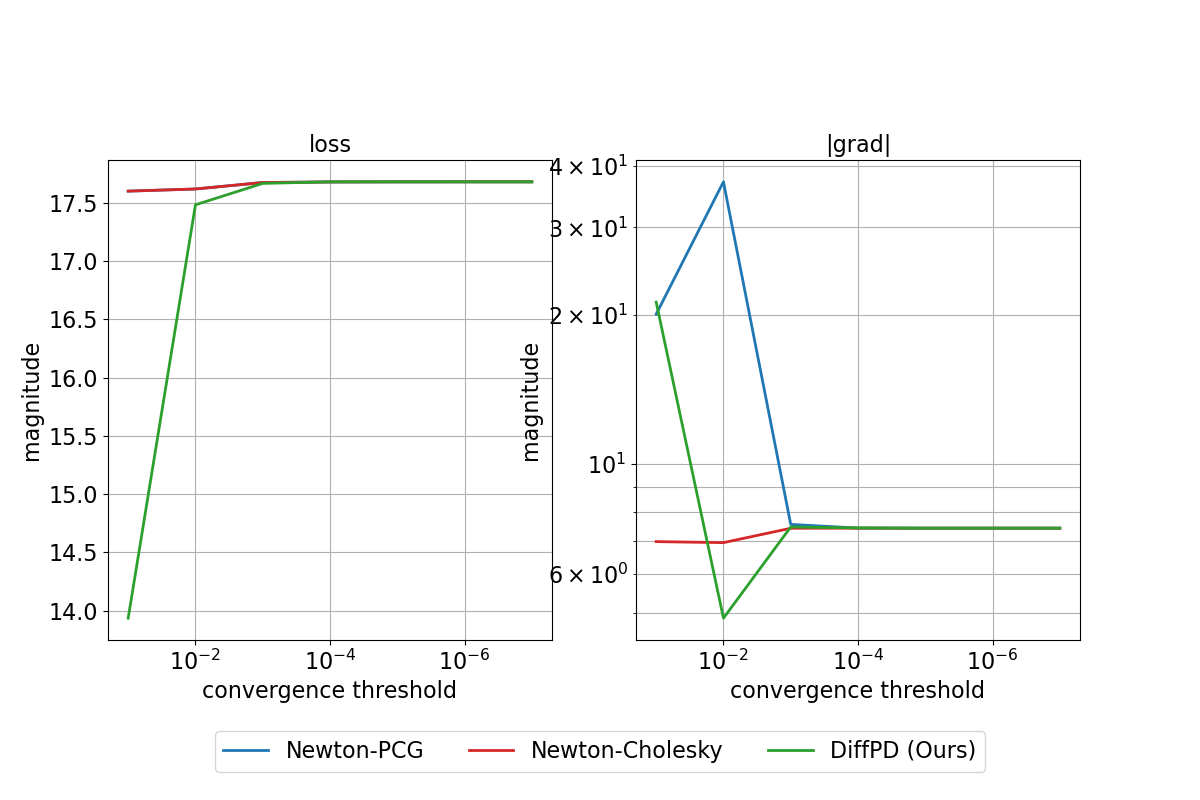
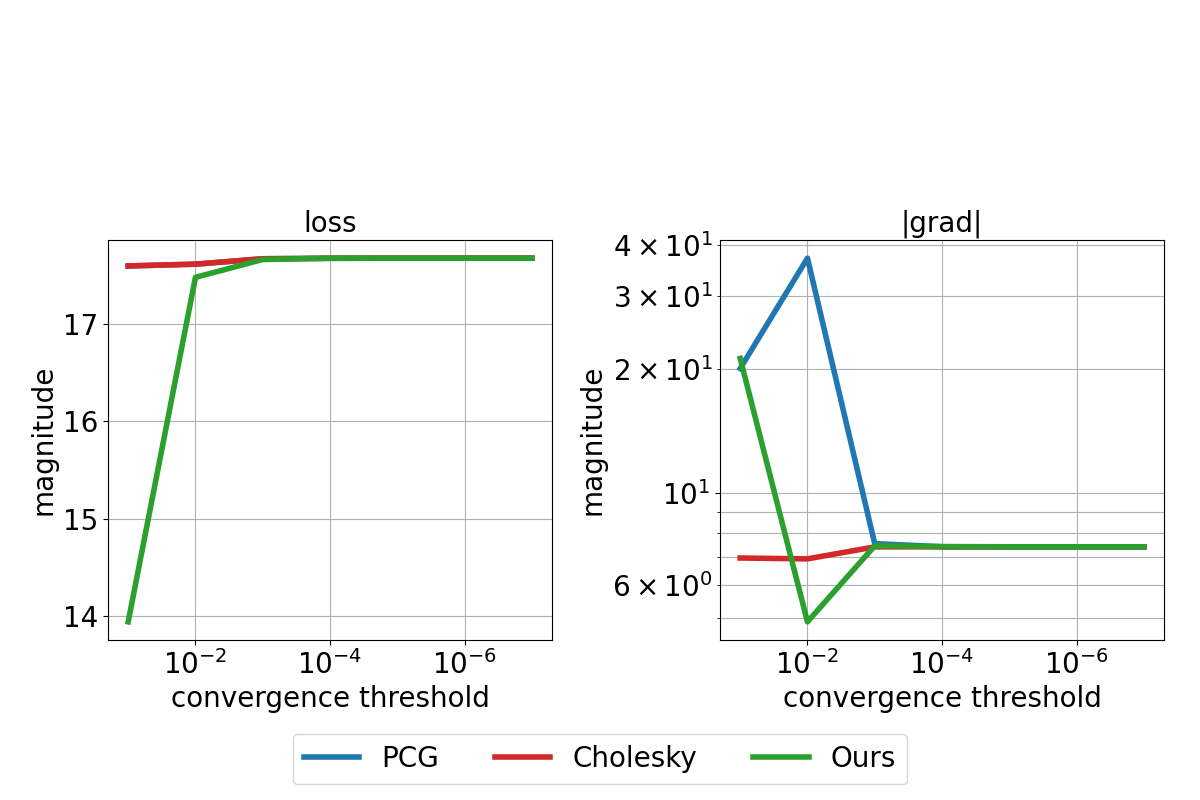
Finalize fig 2 and 3. [skip ci]

diff --git a/python/example/print_benchmark_3d_table.py b/python/example/print_benchmark_3d_table.py
@@ -48,7 +48,7 @@ if __name__ == '__main__':
         print_warning('Benchmark data corrupted. Showing the first {} only.'.format(max_rel_tol_nums))
         rel_tols = rel_tols[:max_rel_tol_nums]
 
-    thread_cts = [4, 8, 12]
+    thread_cts = [2, 4, 8]
     forward_backward_times = {}
     for method in forward_times:
         forward_backward_times[method] = np.zeros(len(rel_tols))
@@ -150,7 +150,7 @@ if __name__ == '__main__':
         ax.invert_xaxis()
         if 'grad' in title:
             ax.set_yscale('log')
-        for method, method_ref_name in zip(['newton_pcg', 'newton_cholesky', 'pd_eigen'], ['Newton-PCG', 'Newton-Cholesky', 'DiffPD (Ours)']):
+        for method, method_ref_name in zip(['newton_pcg', 'newton_cholesky', 'pd_eigen'], ['PCG', 'Cholesky', 'Ours']):
             if 'pd' in method:
                 color = 'tab:green'
             elif 'pcg' in method:

diff --git a/python/example/benchmark_3d.py b/python/example/benchmark_3d.py
@@ -21,7 +21,7 @@ def test_benchmark_3d(verbose):
     deformable = env.deformable()
 
     # Setting thread number.
-    thread_cts = [4, 8, 12]
+    thread_cts = [2, 4, 8, 12]
 
     methods = ('newton_pcg', 'newton_cholesky', 'pd_eigen', 'pd_no_bfgs')
     opts = ({ 'max_newton_iter': 5000, 'max_ls_iter': 10, 'abs_tol': 1e-9, 'rel_tol': 1e-4, 'verbose': 0, 'thread_ct': 4 },

diff --git a/README.md b/README.md
@@ -64,7 +64,7 @@ Navigate to the `python/example` path and run `python [example_name].py` where t
 
 ### Demos
 - `landscape_3d.py` and `print_landscape_3d_table.py`: generate Fig. 1 of the paper.
-- `benchmark_3d` compares and reports the time cost of one forward call and one backward call in Newton-PCG, Newton-Cholesky, and PD. Below is the time cost on a benchmark cantilever beam with 8019 DoFs. We simulated the example for 30 frames with dt = `0.01`. `forward` and `backward` indicates the time cost for forward simulation (25 frames in total) and back propagation respectively.
+- `benchmark_3d.py` and `print_benchmark_3d_table.py`: generate Figs. 2 and 3 of the paper.
 ![benchmark](python/example/benchmark_3d/benchmark.png)
 ![benchmark_loss_and_grad](python/example/benchmark_3d/benchmark_loss_grad.png)
 - `tendon_routing_3d` implements a simple tendon routing example with forward and backward PD and two Newton baselines. The goal is to let the endpoint of the stick finger reach a target point in the 3D space.
